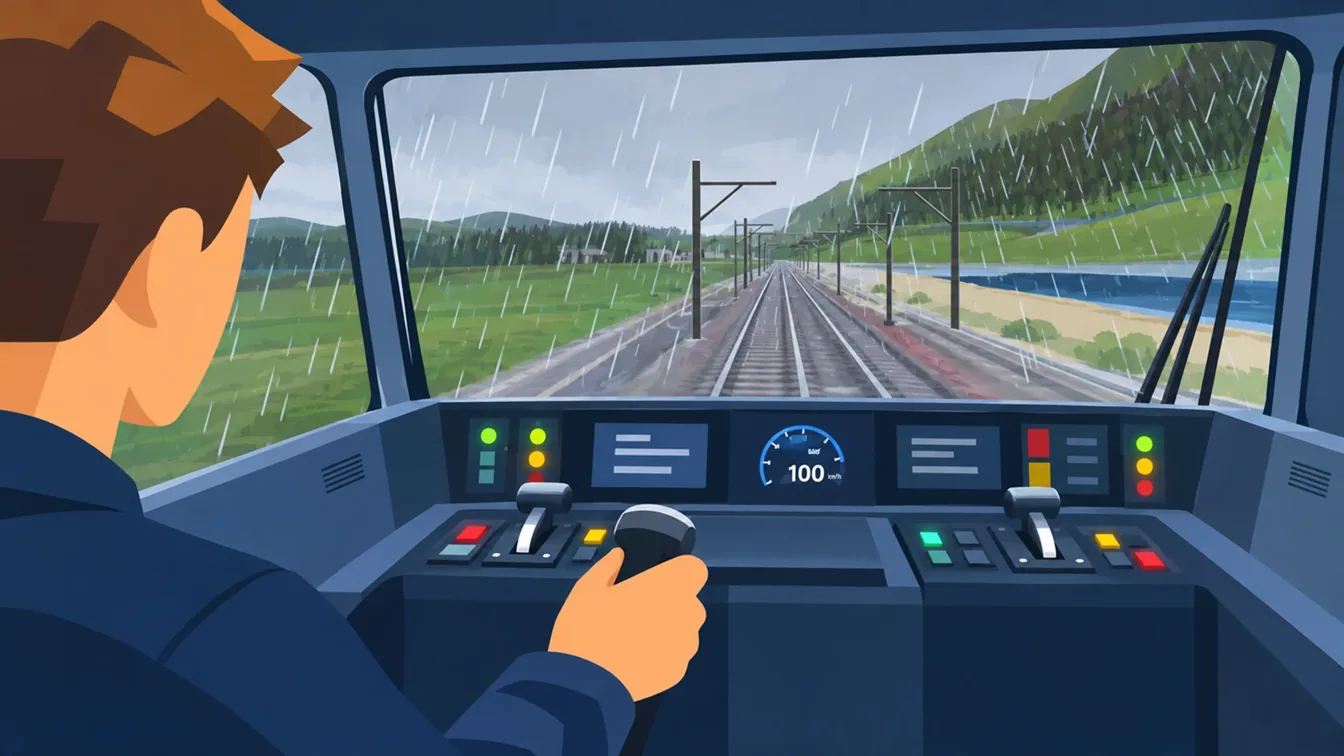
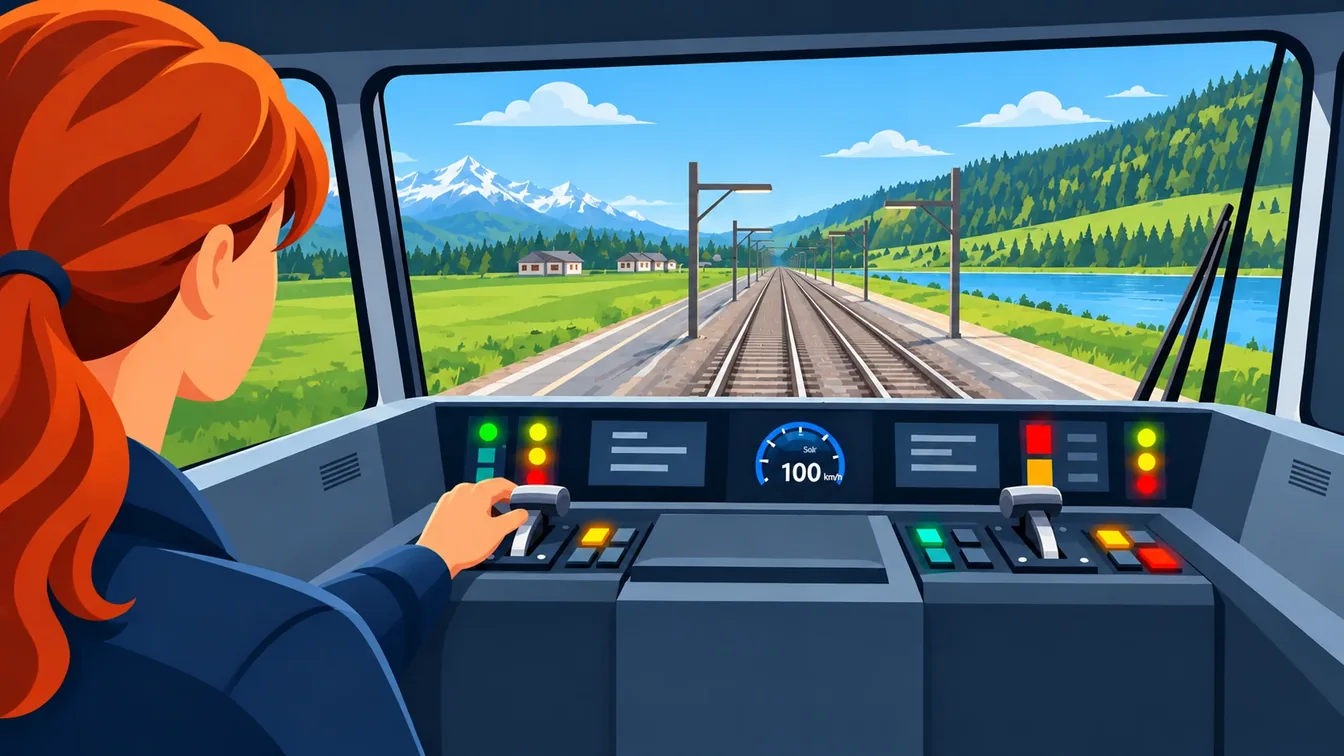
Finale Bilder für Probefahren, hell und dunkel
Claude-Session: https://claude.ai/code/session_01NmQeKCF7bHq44rvGBQiMKH

diff --git a/app/src/spiele.ts b/app/src/spiele.ts
@@ -20,6 +20,7 @@ import modellbahnHell from './assets/auftakt-modellbahn-hell.webp'
 import wobinichBild from './assets/auftakt-wobinich.webp'
 import wobinichDunkel from './assets/auftakt-wobinich-dunkel.webp'
 import probefahrenBild from './assets/auftakt-probefahren.webp'
+import probefahrenDunkel from './assets/auftakt-probefahren-dunkel.webp'
 // seit 2026-11-12 ein eigenes Bild in Taktland, 3dland.ch behält seine (Michael: «Dieses Bild für Virtuelle Schweiz anwenden»)
 import schweiz3dHell from './assets/auftakt-virtuell-hell.webp'
 import schweiz3dDunkel from './assets/auftakt-virtuell-dunkel.webp'
@@ -62,7 +63,7 @@ export const SPIELE: Spiel[] = [
     id: 'modellbahn', titel: 'Probefahren', status: 'spielbereit', adresse: '#/modellbahn',
     kurz: 'Eine Strecke als Modell im Gelände, im Führerstand selbst fahren, auch in der VR-Brille.',
     // Bild seit 2026-11-20 (Michael: «Hier die neuen Bilder für die Spiele Wo fahre ich (Bild 1) und Probefahren (Bild 2)»)
-    bild: { hell: probefahrenBild, dunkel: probefahrenBild, alt: 'Illustration: Blick aus dem Führerstand auf eine Strecke im Regen, im Vordergrund das Pult.' },
+    bild: { hell: probefahrenBild, dunkel: probefahrenDunkel, alt: 'Illustration: Eine Lokführerin im Führerstand, vor ihr das Pult und die Strecke mit Fahrleitung.' },
     beschreibung: 'Eine Strecke als Modell im Gelände: drehen, zoomen und einen Zug darüber fahren lassen, mit einer '
       + 'Brille auch auf dem Tisch vor dir. Im Führerstand fährst du selbst, mit dem echten Wetter der nächsten Station. Ein Modell, '
       + 'kein Abbild der Wirklichkeit. Dazu die Probefahrten, die einen Weg wie unterwegs abspielen.',

diff --git a/app/src/komponenten/Kopf.tsx b/app/src/komponenten/Kopf.tsx
@@ -21,6 +21,7 @@ import fahrtHell from '../assets/auftakt-fahrt-hell.webp'
 import wobinichBild from '../assets/auftakt-wobinich.webp'
 import wobinichDunkel from '../assets/auftakt-wobinich-dunkel.webp'
 import probefahrenBild from '../assets/auftakt-probefahren.webp'
+import probefahrenDunkel from '../assets/auftakt-probefahren-dunkel.webp'
 import linienDunkel from '../assets/auftakt-linien-dunkel.webp'
 import linienHell from '../assets/auftakt-linien-hell.webp'
 import spieleDunkel from '../assets/auftakt-spiele-dunkel.webp'
@@ -166,8 +167,9 @@ const BILDER: Partial<Record<Bereich | 'anleitung' | 'start' | 'fahrt' | 'probef
     alt: 'Illustration: Ein Tablet mit einer Strecke, einer roten Ortsmarke und einem Fragezeichen steht im Zug auf dem Tisch am Fenster, draussen zieht die Landschaft vorbei.',
   },
   probefahren: {
-    hell: probefahrenBild, dunkel: probefahrenBild, breite: 1344, hoehe: 756,
-    alt: 'Illustration: Blick über die Schulter einer Person im Führerstand auf das Pult und durch die Frontscheibe auf eine Strecke im Regen mit Fahrleitung, links Wiesen, rechts ein See.',
+    // die finalen Bilder (Michael, 2026-11-20: «Hier die zwei finalen Bilder für «Probefahren»»), am Tag sonnig, nachts im Regen unter dem Mond
+    hell: probefahrenBild, dunkel: probefahrenDunkel, breite: 1344, hoehe: 756,
+    alt: 'Illustration: Blick über die Schulter einer Lokführerin auf das Pult und durch die Frontscheibe auf eine Strecke mit Fahrleitung, links Häuser und Berge, rechts ein See und Wald.',
   },
   duell: {
     hell: duellHell, dunkel: duellDunkel, breite: 1344, hoehe: 664,

diff --git a/CLAUDE.md b/CLAUDE.md
@@ -1411,7 +1411,7 @@ Karte von «Geo» mit den Hilfen vom Start, gewertet wie dort (punkte, nullGrenz
 davor und danach und die Linie. Das Bild der Kachel ist vorerst das des Fahrtmodus. Seit 2026-11-14 heisst es «Wo fahre ich?» (Adresse und Code weiter wobinich) und zeigt die Höhe immer wie echt, ohne «Höhe wie echt / 2-fach» im Bild und am Pult
 (Michael: «Bei Wo bin isch Spiel braucht es die 2x Höhe nicht. Entsprechend auch Höhe wie echt nicht. Name korrigieren: neu Wo fahre ich?»).
 Seit 2026-11-20 haben «Wo fahre ich?» und «Probefahren» eigene Bilder von Michael, auf der Kachel und oben auf der Seite (Michael: «Hier die neuen Bilder für die Spiele Wo fahre ich
-(Bild 1) und Probefahren (Bild 2)»; src/assets/auftakt-wobinich.webp und auftakt-probefahren.webp, 1344 × 756; für «Wo fahre ich?» dazu die Nacht als auftakt-wobinich-dunkel.webp, Michael: «hier das Nachtmodus Bild für Wo fahre ich»; Probefahren hell und dunkel gleich); die Übersicht der Spiele behält das Bild der Modellbahn.
+(Bild 1) und Probefahren (Bild 2)»; src/assets/auftakt-wobinich.webp und auftakt-probefahren.webp, 1344 × 756; für «Wo fahre ich?» dazu die Nacht als auftakt-wobinich-dunkel.webp, Michael: «hier das Nachtmodus Bild für Wo fahre ich»; für «Probefahren» seit 2026-11-20 die finalen Bilder hell und dunkel, auftakt-probefahren.webp und -dunkel.webp, Michael: «Hier die zwei finalen Bilder für «Probefahren»»); die Übersicht der Spiele behält das Bild der Modellbahn.
 
 **Fahrplan-Puzzle** (#/puzzle) und **Wie lange dauert's?** (#/fahrzeit) (Spiele, Michael, 2026-11-14: «6 und 7 gerne umsetzen»): Vorrat
 data/fahrplan/spiel.json aus pipeline/build_fahrplan.py (spiel_schreiben, beim Veröffentlichen mit dem Fahrplan gebaut): je Muster (Gattung, Linie, Ziel,
